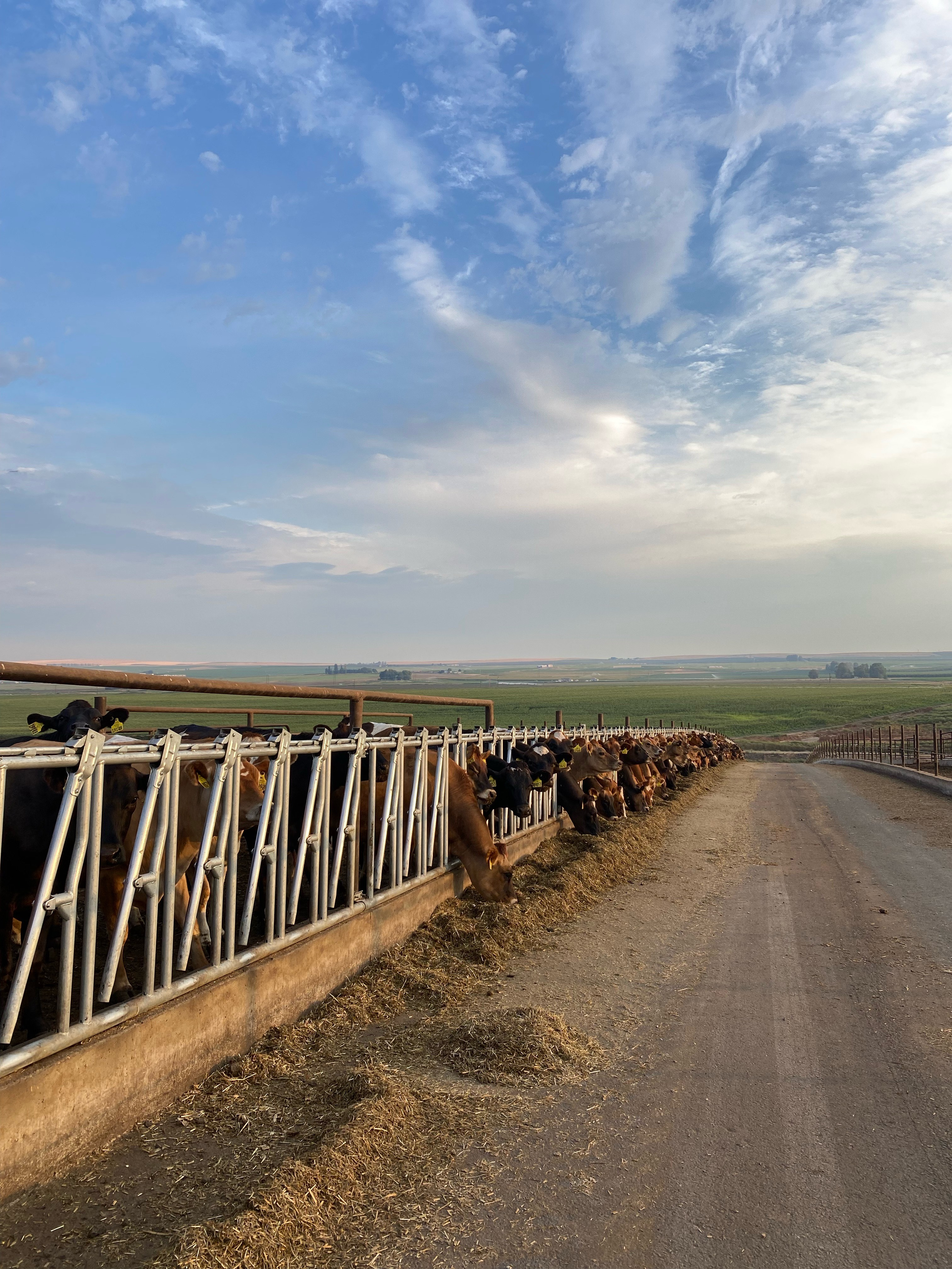
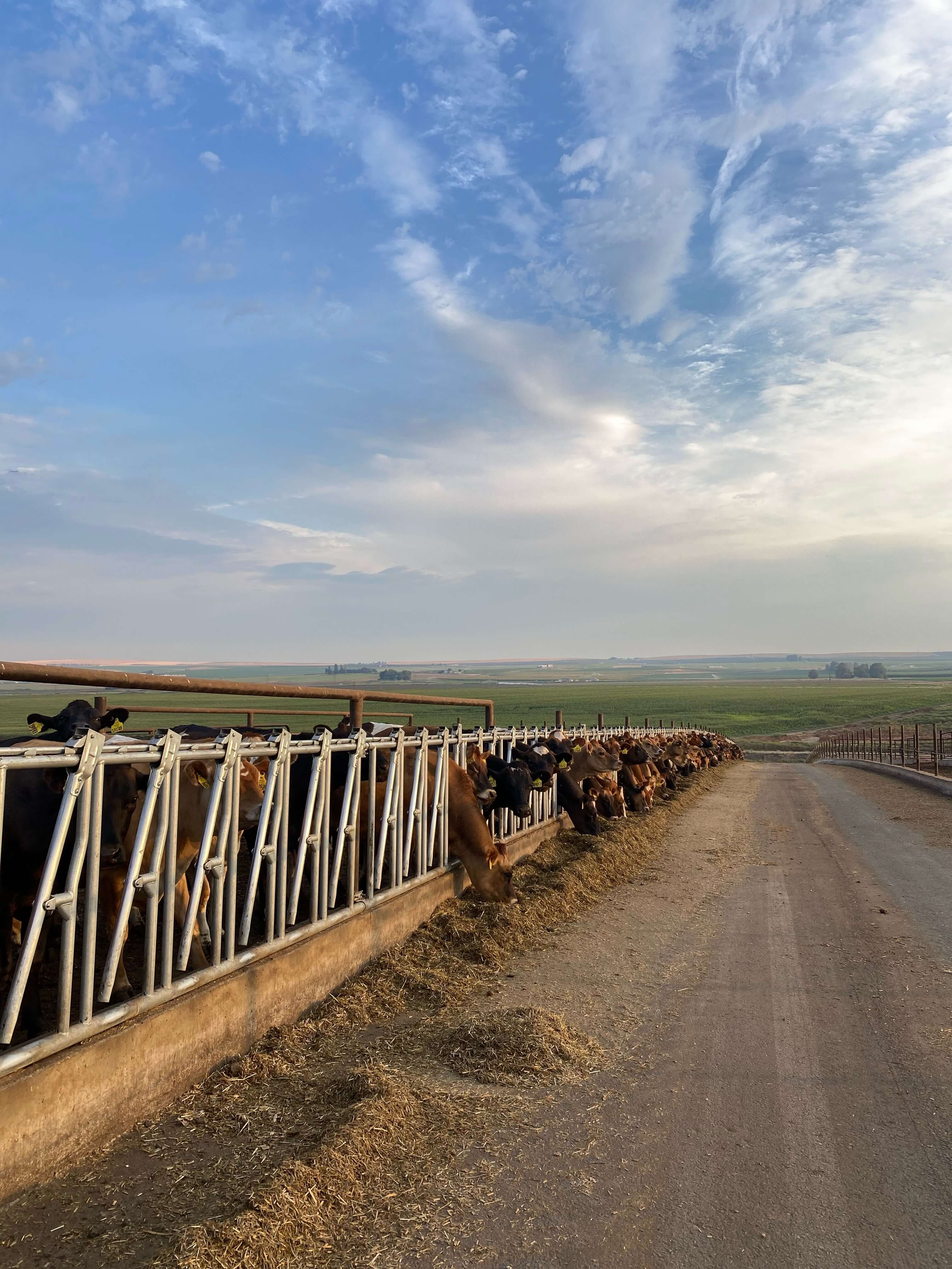
[UPD] optimized images

Changed region(s): [[0.5595, 0.8125, 0.6217, 0.8438], [0.5906, 0.6875, 0.6217, 0.7188], [0.3108, 0.9375, 0.3419, 0.9688]]

diff --git a/index.html b/index.html
@@ -270,7 +270,7 @@
          >
            <img
              id="img_hamburger_1"
-             src="assets/hamburgers/Hamburger-1.png"
+             src="assets/hamburgers/Hamburger-1.webp"
              alt="img hamburger-1"
              class="img-5 img_parallax"
            />
@@ -288,7 +288,7 @@
 
          >
            <img
-             src="assets/hamburgers/Hamburger-2.png"
+             src="assets/hamburgers/Hamburger-3.webp"
              alt="img hamburger-2"
              class="img-5"
            />
@@ -308,7 +308,7 @@
 
          >
            <img
-             src="assets/hamburgers/Hamburger-3.png"
+             src="assets/hamburgers/Hamburger-3.webp"
              alt="img hamburger-3"
              class="img-5"
            />
@@ -326,7 +326,7 @@
 
          >
            <img
-             src="assets/hamburgers/Hamburger-4.png"
+             src="assets/hamburgers/Hamburger-4.webp"
              alt="img hamburger-4"
              class="img-5"
            />
@@ -341,7 +341,7 @@
 
          <div class="d-flex align-items-center element_parallax">
            <img
-             src="assets/hamburgers/Hamburger-6.png"
+             src="assets/hamburgers/Hamburger-6.webp"
              alt="img hamburger-5"
              class="img-5"
            />
@@ -354,53 +354,7 @@
              planet! So do your part, eat at Molly D's.
            </p>
          </div>
-         <!-- <div
-           class="d-flex h-100 align-items-center element_parallax"
-
-         >
-           <img
-             src="assets/hamburgers/Hamburger-6.png"
-             alt="img hamburger-6"
-             class="img-5"
-           />
-
-           <hr
-             class="separator mt-5"
-             style="left:0%; height:25rem"
-             data-aos="slide-down"
-             data-aos-duration="5200"
-             data-aos-easing="ease-in-out-back"
-             data-aos-anchor-placement="center-bottom"
-           />
-         </div> -->
        </section>
-
-      <!-- <section class="snap-section snap-container" id="section_hamburgers"> -->
-      <!-- <section
-        class="py-1 h-100 bg_parallax snap-section bg-dark"
-        id="section_paralax_1"
-      ></section>
-      <section
-        class="py-1 h-100 bg_parallax snap-section"
-        id="section_paralax_2"
-      ></section>
-      <section
-        class="py-1 h-100 bg_parallax snap-section bg-dark"
-        id="section_paralax_3"
-      ></section>
-      <section
-        class="py-1 h-100 bg_parallax snap-section"
-        id="section_paralax_4"
-      ></section>
-      <section
-        class="py-1 h-100 bg_parallax snap-section bg-dark"
-        id="section_paralax_5"
-      ></section>
-      <section
-        class="py-1 h-100 bg_parallax snap-section"
-        id="section_paralax_6"
-      ></section> -->
-      <!-- </section> -->
 
       <hr
         class="separator snap-section"
@@ -483,21 +437,6 @@
             OF THE <br />
             AIR
           </h1>
-
-          <div class="arrows">
-             <!-- <div class="bg-arrow"></div>
-             <div class="bg-arrow"></div>
-             <div class="bg-arrow"></div>
-             <div class="bg-arrow"></div>
-             <div class="bg-arrow"></div>
-             <div class="bg-arrow"></div>
-             <div class="bg-arrow"></div>
-             <div class="bg-arrow"></div>
-             <div class="bg-arrow"></div>
-             <div class="bg-arrow"></div>
-             <div class="bg-arrow"></div>
-             <div class="bg-arrow"></div> -->
-          </div>
 
           <h1
             class="mt-2 p-bottom"
@@ -780,16 +719,6 @@
             <img src="assets/follows/follow-18.jpeg" alt="img follow 18" class="img-100">
 
             <img src="assets/follows/follow-20.jpeg" alt="img follow 20" class="img-100">
-            <!-- <img src="assets/follows/follow-1.png" alt="img follow 1" class="img-100"> -->
-            <!-- <img src="assets/follows/follow-2.png" alt="img follow 2" class="img-100"> -->
-            <!-- <img src="assets/follows/follow-3.png" alt="img follow 3" class="img-100"> -->
-            <!-- <img src="assets/follows/follow-6.png" alt="img follow 6" class="img-100"> -->
-            <!-- <img src="assets/follows/follow-7.png" alt="img follow 7" class="img-100"> -->
-            <!-- <img src="assets/follows/follow-8.png" alt="img follow 8" class="img-100"> -->
-            <!-- <img src="assets/follows/follow-13.png" alt="img follow 13" class="img-100"> -->
-            <!-- <img src="assets/follows/follow-16.jpg" alt="img follow 16" class="img-100"> -->
-            <!-- <img src="assets/follows/follow-19.jpeg" alt="img follow 19" class="img-100"> -->
-            <!-- <img src="assets/follows/follow-23.png" alt="img follow 23" class="img-100"> -->
           </div>
         </div>
       </section>
@@ -870,27 +799,14 @@
                   data-aos-anchor-placement="center-bottom">
                   <i class="fa-brands fa-facebook-f fa-lg "></i>
              </a>
-            <!-- <a href="https://www.instagram.com/" target="_blank">
-              <span class="fa-stack fa-2x">
-               <i class="fa-solid fa-square fa-stack-1x"></i>
-               <i class="fa-brands fa-instagram fa-stack-1x fa-inverse" style="color: #6E6C4F;"></i>
-             </span>
-            </a>
-            <a href="https://www.facebook.com/" target="_blank">
-               <span class="fa-stack fa-2x">
-                <i class="fa-solid fa-square fa-stack-1x"></i>
-                <i class="fa-brands fa-facebook-f fa-stack-1x fa-inverse" style="color: #6E6C4F;"></i>
-              </span>
-            </a> -->
           </div>
         </div>
       </section>
       <footer class="d-flex text-light">
-         <span class="mr-1">Website by <a href="https://www.dairyperformancenetwork.com/" target="_blank"><img decoding="async" src="assets/logo_dpn.png" style="width:50px"></a></span>
+         <span class="mr-1">Website by <a href="https://www.dairyperformancenetwork.com/" target="_blank"><img alt="" decoding="async" src="assets/logo_dpn.png" style="width:50px"></a></span>
       </footer>
     </div>
 
-    <!-- <script src="https://unpkg.com/aos@2.3.1/dist/aos.js"></script> -->
     <script src="plugins/aos/aos.js"></script>
     <script src="js/index.js"></script>
   </body>
